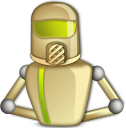
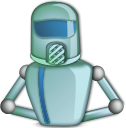
Theme the 404 page in blue.

diff --git a/404.html b/404.html
@@ -29,7 +29,7 @@
             <div class="tryToMessage">
                 Try to:
                 <ul>
-                    <li>Phone <a href="http://whizu.org" title="Home">Home</a></li>
+                    <li>Phone <a href="http://whizu.org" title="Home">home</a></li>
                     <li>Go <a href="javascript:history.go(-1)" title="Back">back</a></li>
                 </ul>
             </div>

diff --git a/stylesheets/404-style.css b/stylesheets/404-style.css
@@ -190,7 +190,7 @@ body {
 
 
 .tryToMessage ul li a {
-	color:#6b571c;
+	color:white;
 }
 .tryToMessage ul li a:hover {
 	color:#261f09;
@@ -284,7 +284,7 @@ footer p.copy {
     color: #41444b;
     float: left;
     font-family: 'Istok Web',sans-serif;
-    font-size: 0.7em;
+    font-size: 0.9em;
     margin: 3px 0 0;
     text-align: left;
     width: 300px;
